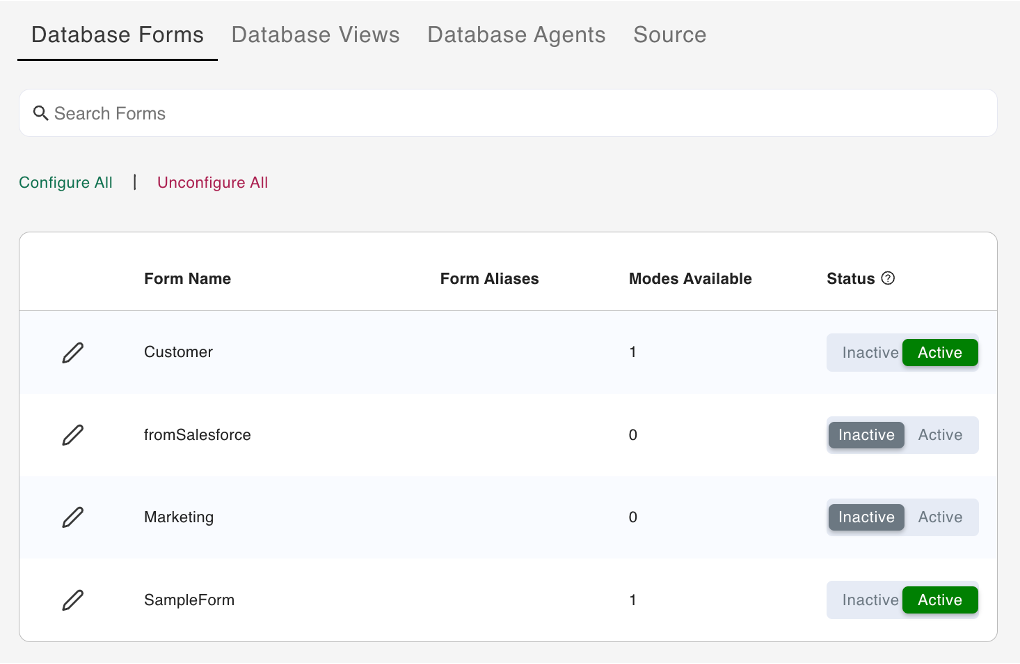
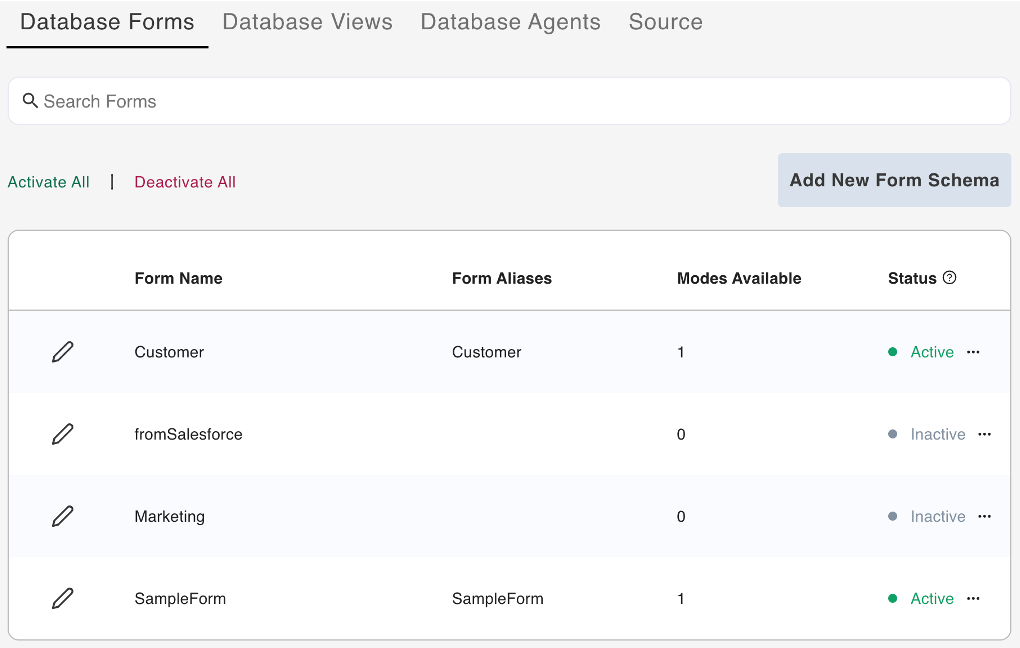
DRAPI v1.0.11 updates

diff --git a/docs/references/usingwebui/schemaui.md b/docs/references/usingwebui/schemaui.md
@@ -103,48 +103,47 @@ The `nsf` database file and schema are added to the schema list.
 2. Select **Database Forms** from the menu bar to show the list of all the forms for the selected database schema.
 
       <!--![Database Schema](../../assets/images/insideSchema.png)-->
-      ![List Forms](../../assets/images/ListOfForms1.png)
+      ![List Forms](../../assets/images/ListOfForms2.png)
 
+
+## Add new form schema
+
+!!!tip
+     The **Add New Form Schema** feature enables the creation of a new custom form through which you can set up a schema. The feature doesn't create a new form on the backend, so it won't exist in the database. Everything related to the new form is contained within the schema. Therefore, if you delete the form, it's only removed from the list of forms on the **Database Forms** tab.
+
+1. Click **Add New Form Schema**.
+2. On the **Add New Form Schema** dialog, enter your schema name and click **Create**.
+3. On the **Schema Management - <schema name\>** page, select a form from the **Show fields from** dropdown field to display the fields of the selected form. You can also select **All Fields** from the dropdown field to display all the fields from all the available forms. 
+4. Select the fields that you want to add to the mode.
+5. Configure the **Field Setting** and **Mode Formula Settings** as needed for each added field. 
+6. Click **Save**.
+
+The new form is now added to the list of forms and has an **Active** status. 
+
+!!!note
+      The form created using this feature can't be deactivated and can only be deleted. To delete the form, click the menu icon beside the form's status and select **Delete**. In the **WARNING: Deleting Custom Form** dialog, click **Yes** to confirm. 
 
 ## Configure a form
 
 **To configure a specific form or forms**
 
-- Select the form that you want to activate, and then click the corresponding **Active** option under **Status**.
+- Select the form that you want to activate, click the corresponding menu icon beside the form's status, and then select **Activate**.
+
+The configured form now has an **Active** status. 
 
 !!!tip
-    Clicking the **Inactive** option corresponding to a form unconfigures the form. In the **Reset Form** dialog, click **Yes** to unconfigure the form.
+    Clicking the menu icon and selecting **Deactivate** corresponding to a form unconfigures the form. In the **Reset Form** dialog, click **Yes** to confirm. The form now has an **Inactive** status.
 
-<!--1. From the available forms under **Unconfigured Forms**, select the form that you would like to configure. 
-2. Click the toggle in the form card of the selected form.
-3. In the **Configure** dialog, click **Yes**. 
-
-The selected form is now configured with default settings and listed under **Configured Forms**.-->
 
 **To configure all forms**
 
-- Click **Configure All**.
+- Click **Activate All**.
 
-All forms are now configured with default settings and listed under **Configured Forms**.
+All forms are now configured with default settings and have **Active** status.
 
 !!!tip
-    Clicking **Unconfigure All** unconfigures all configured forms and removes all configurations you have made to each of the forms. In the confirmation dialog, click **Yes** to unconfigure all configured forms.
-
-<!--**To unconfigure a form**
-
-1. From the available forms under **Configured Forms**, select the form that you would like to unconfigure.
-2. Click the toggle in the form card of the selected form.
-3. In the **Unconfigure Form** dialog, click **Yes**. 
-
-The selected form is now moved under **Unconfigured Forms**. 
-
-**To unconfigure all forms**
-
-- Click **Unconfigure All**.
-
-!!!note
-    Clicking **Unconfigure All** removes all configurations you have made to each of the forms.-->
-
+    - Clicking **Deactivate All** unconfigures all configured forms and removes all the configurations you have made to each of the forms. In the confirmation dialog, click **Yes** to confirm. All forms now have an **Inactive** status.
+    - Clicking **Deactivate All** won't unconfigure forms created using the **Add New Form Schema** feature.  
 
 ## Change form configuration
 
